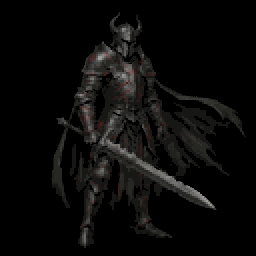
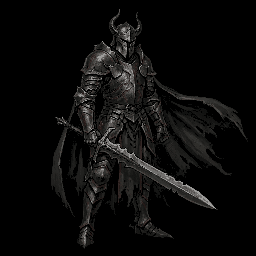
敵の絵を v6 に差し替え、アイコンを v6 のネクロマンサーから作り直す（仕様書 v1.23・v1.24）
TASK-0044。strip-metadata-v6.mjs で public/enemies の 6 枚を v6 にし、make-icons.mjs の切り抜きを (44, −16)・一辺 199 にしてアイコン 5 つを作り直した。テストの MD5・名前、CSS のコメント、再現開発仕様書（v1.24 まで）、依頼書の結果を直し、AC-0044 を draft で足した。

diff --git a/tests/assets/enemy-images.test.ts b/tests/assets/enemy-images.test.ts
@@ -6,14 +6,14 @@ import { ENEMIES } from '../../src/domain/constants';
 
 // 敵の絵のそろい（仕様書 §13.5）。置き忘れ・名前の打ち間違いは画面では「名前だけ」に戻るだけなので、ここで突き合わせる
 const dir = join(process.cwd(), 'public', 'enemies');
-// v1.19：v5 から付属の情報を取り除いたもの（仕様書 §13.1・§13.3）
+// v1.23：v6 から付属の情報を取り除いたもの（仕様書 §13.1・§13.3。v1.19〜v1.22 は v5 から）
 const MD5: Record<string, string> = {
-  slime: 'a3baa3f4e8e31ee1eb15298493eb1fb3',
-  goblin: '97f222e3eb465c1c19c798013ad63bec',
-  skeleton: '62ccdf6b00934945e0fb2ece6e487ea7',
-  orc: '87b6cc60b7bca1204965453191d88a09',
-  darkKnight: '76838481db67cd297fe57def85d51da7',
-  necromancer: 'e41e2ee5a772951e609f1277b0c495b6',
+  slime: '58df9d892d76554ed89f82346ca21081',
+  goblin: 'ce0feb1d59da9f4c15165f29264e0d79',
+  skeleton: 'b7ec2c304ea02d3f3e285759798f2f8d',
+  orc: '0db84f7d216036f495ea1c1613aa1d9b',
+  darkKnight: 'f88bcc81b22f5e9bc9a4ba0e67743892',
+  necromancer: '9b5503a0b3b32ee4fb60de8be9e46fed',
 };
 
 /** PNG のチャンクの種類を順に並べる */
@@ -41,7 +41,7 @@ describe('敵の絵のファイル', () => {
       expect(b.readUInt32BE(16), kind).toBe(256);
       expect(b.readUInt32BE(20), kind).toBe(256);
       expect(b[24], `${kind} ビット深度`).toBe(8);
-      // v1.19：RGB（2）か RGBA（6）。v5 はスライムだけ RGB（v1.18 までは 6 だけ）
+      // v1.19：RGB（2）か RGBA（6）。v5・v6 ともスライムだけ RGB（v1.18 までは 6 だけ）
       expect([2, 6], `${kind} カラータイプ`).toContain(b[25]);
       expect(b[28], `${kind} インタレース`).toBe(0);
       // 付属の情報（EXIF・XMP など）を取り除いたこと

diff --git a/src/ui/style.css b/src/ui/style.css
@@ -353,7 +353,7 @@ body {
 
 /* 戦闘（仕様書 §11.5「戦闘」）。敵の絵は WS-0008 で足す */
 .battle-enemy { display: grid; justify-items: center; }
-/* 敵のウィンドウの中の背景は真っ黒（v1.19。仕様書 §11.3・§11.5）。敵の絵 v5 の背景の真っ黒と同じ色にして、絵のまわりの四角を見せない。
+/* 敵のウィンドウの中の背景は真っ黒（v1.19。仕様書 §11.3・§11.5）。敵の絵（v5 から。v1.23 からは v6）の背景の真っ黒と同じ色にして、絵のまわりの四角を見せない。
    .wiz-window の background より後に置き、class を 2 つ重ねて確実に勝たせる */
 .wiz-window.battle-enemy-window { background: var(--wiz-color-enemy-background); }
 /* 敵の絵（仕様書 §13.2）：どの画面も 256×256（絵の大きさのまま）。名前との間 0、ブラウザが拡大するときもぼかさない */

diff --git a/tests/scripts/icons.test.ts b/tests/scripts/icons.test.ts
@@ -19,8 +19,8 @@ function expectCropped(png: ReturnType<typeof decodePng>, size: number, x: numbe
   expect(pixel(png, x, y), `(${x}, ${y})`).toEqual(sourceRgb(necro, sx, sy));
 }
 
-describe('アイコン（仕様書 v1.22 §30.5）', () => {
-  test('TC-0002-08 renderIcons の 5 つがコミットしたファイルと同じで、ネクロマンサーの絵の (26, −16)・一辺 198 を点のまま切り抜いている', () => {
+describe('アイコン（仕様書 v1.24 §30.5）', () => {
+  test('TC-0002-08 renderIcons の 5 つがコミットしたファイルと同じで、ネクロマンサーの絵の (44, −16)・一辺 199 を点のまま切り抜いている', () => {
     const made = renderIcons();
     expect(Object.keys(made).sort()).toEqual(['apple-touch-icon.png', 'icon-192.png', 'icon-512.png', 'icon-maskable-512.png', 'icon.svg']);
     for (const [name, data] of Object.entries(made)) {

diff --git a/src/ui/theme.css b/src/ui/theme.css
@@ -1,7 +1,7 @@
 /* 色・文字の CSS 変数（仕様書 §11.3）。部品には Hex を書かず、ここの変数を使う */
 :root {
   --wiz-color-background: #0b0a0f;
-  --wiz-color-enemy-background: #000000; /* 戦闘の敵のウィンドウの中（v1.19。敵の絵 v5 の背景の真っ黒に合わせる） */
+  --wiz-color-enemy-background: #000000; /* 戦闘の敵のウィンドウの中（v1.19。敵の絵（v5 から。v1.23 からは v6）の背景の真っ黒に合わせる） */
   --wiz-color-primary: #e8dcc0;
   --wiz-color-frame: #c9a227;
   --wiz-color-line: #ffffff;

diff --git a/docs/07_attested/MWIZ-AC-0044-attested-computation-ja.md b/docs/07_attested/MWIZ-AC-0044-attested-computation-ja.md
@@ -1,0 +1,70 @@
+---
+id: MWIZ-AC-0044
+type: Attested Computation
+title: 敵の絵の v6 への差し替えと、アイコンの作り直し（仕様書 v1.23・v1.24）の実施記録
+status: draft
+version: 1.0
+updated: 2026-11-17
+sources:
+  - MWIZ-TASK-0044（v1.0）
+  - MWIZ-TC-0002（v1.3）
+  - MWIZ-TC-0033（v1.6）
+verified: null
+---
+
+# AC-0044 敵の絵の v6 への差し替えと、アイコンの作り直し（仕様書 v1.23・v1.24）の実施記録
+
+## 1. 実施概要
+
+| 項目 | 内容 |
+| --- | --- |
+| タスク | [TASK-0044](../06_plan/MWIZ-TASK-0044-implementation-task-ja.md) 敵の絵の v6 への差し替えと、アイコンの作り直し（変更の依頼 `docs/requests/2026-11-17-spec-1.23-enemy-images-v6.md`・`docs/requests/2026-11-17-spec-1.24-icon-v6.md`） |
+| 実施者 | Claude Code（オーナー：tsuku3dayo） |
+| ブランチ | `feat/TASK-0044-enemy-images-v6` |
+| 環境 | Windows 11・PowerShell／Git Bash、Node.js v24.0.0。Vitest 5.1.0、Playwright 1.65.0 の Chromium |
+
+作ったもの（TD-0005 v1.15 §2.1・仕様書 §13・§30.5 のとおり）：
+
+- `public/enemies/*.png`：`docs/requests/monster/strip-metadata-v6.mjs` で、v6（256 版）の 6 枚から付属の情報を取り除いて上書きした。6 枚とも MD5 が仕様書 §13.1 の表と同じ
+- `scripts/make-icons.mjs`：`CROP_X = 44`・`CROP_SIZE = 199`（`CROP_Y = −16` は同じ）と頭の説明。`npm run icons` で `public/icons/` の 5 つを作り直した。5 つとも、依頼 v1.24 の時に試しに作ったものと MD5 が同じ
+- `tests/assets/enemy-images.test.ts`：MD5 を v6 に、説明の「v5」を直した。`tests/scripts/icons.test.ts`：テストの名前と説明の切り抜きの値（点の確かめは `CROP_X` などから計算するので式は変わらない）
+- `src/ui/theme.css`・`src/ui/style.css`：説明の文（コメント）の「敵の絵 v5」を「v5 から。v1.23 からは v6」に。色・形は変えていない
+- `docs/reproduction-specification.md`：仕様書 v1.22 → v1.24 の差分を当てた。当たらなかった版の行・改訂履歴・第 2 部の §30.5・§32 は手で直し、第 1 部・§30.5・§32・仕様書の改訂履歴の行が仕様書と 1 字も違わないことを比べた（改訂履歴の表は、再現開発仕様書だけにある「再現 1.0.0 → v1.x」の行が前からある）
+- 依頼書 v1.23・v1.24 の影響の一覧に結果を書いた
+
+直す前に、`e2e/`・`tests/`・`src/`・`scripts/`・`vite.config.ts` で、v5 の MD5・「v5」・`26, −16`・`198` と、画像のファイル名（`enemies/`・`necromancer.png`・`.png`）を探した。絵の中身から何かを作るのはアイコン（`make-icons.mjs`）だけで、E2E・公開前チェック（`check-dist.mjs`）は大きさ・ファイル名・4 隅の色だけを見る。
+
+## 2. 確認結果
+
+| 確認 ID | 方法 | 結果 | 直したこと |
+| --- | --- | --- | --- |
+| TC-0033-05 | 単体 | OK | 6 枚の MD5 を v6 に。形式（RGB か RGBA）・チャンク（IHDR・IDAT・IEND だけ）は直さずに通った（v6 のスライムは IDAT が 3 つ） |
+| TC-0002-08 | 単体 | OK | テストの名前を (44, −16)・一辺 199 に。コミットしたアイコン 5 つが作り直したものと同じ、点の色が切り抜きどおり |
+| TC-0033-01〜04・07 | E2E（3 端末） | OK | 直さずに通った（07：v6 も 4 隅は `(0,0,0,255)`） |
+| TC-0003-02・TC-0001-03・TC-0002-06 | E2E（3 端末） | OK | 直さずに通った |
+
+手元で通したもの（2026-11-17）：
+
+- `npm run verify`：lint、check:docs（エラー 0・注意 1：AC-0024 の仕様書の版の表記＝承認済みの記録なので変えない）、単体 39 ファイル 197 件、build、check:dist OK
+- `npm run test:e2e`：519 件通った・51 件はその端末の対象外で飛ばした・落ちたものはない（8.3 分）
+
+画面の確かめ：375 × 667（`small`）と 1280 × 800（`desktop`）で、6 体の戦闘画面を撮って見た（体力わずかの赤い枠のとき）。絵のまわりに四角は見えず、絵が枠や名前と重ならない。画面の形は変わっていない。アイコンは 192 と maskable を開いて見た：図柄の左右の余白がそろい、杖の先のどくろまで入る。
+
+## 3. 確認できなかったこと
+
+- （WS の終わりの手動テスト（TC-0033-06・TC-0002-09）のあとに書く）
+- Android の実機はない（E2E の `pixel7` で代わりに確かめた）。
+
+## 4. 後片付け
+
+- 撮影に使った一時的なテスト（`e2e/zz-shot.spec.ts`）、撮った画像、当たらなかった差分（`.rej`）は、プロジェクトの外の作業用の一時フォルダに移した（リポジトリには入れていない）。
+- 見比べに使った 128 版の v6 の 5 枚と、オーナーの `docs/screenshot/` はコミットしていない。
+
+## 5. 完了の定義
+
+- [x] 上の自動の確認 ID のテストがすべてあり、通る
+- [x] `npm run verify` と `npm run test:e2e` が手元で通る
+- [x] 画面の変更は、PC と一番小さいスマートフォンの幅でスクリーンショットを見た
+- [x] 設計と違う作りにしたら、TD・GUI を直した（設計どおりに作れたので直していない）
+- [x] AC-0044（draft）に自動テストの結果を書き、同じ PR に入れた
+- [ ] PR の CI が緑で、マージされた（マージ = 公開）
